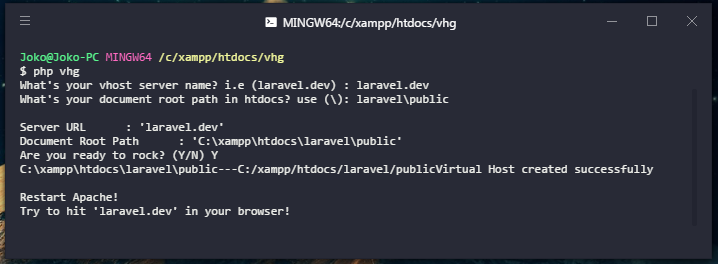
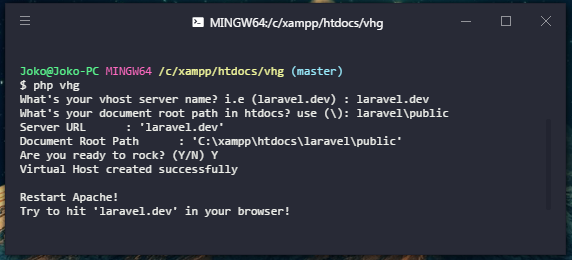
Remove debug, Update readme & screenshot

diff --git a/src/VHostGenerator.php b/src/VHostGenerator.php
@@ -66,10 +66,7 @@ class VHostGenerator
 
     private function convertSlash($document_root_path)
     {
-        echo $document_root_path;
         $new_path = str_replace('\\', '/', $document_root_path);
-        echo "---";
-        echo $new_path;
         return $new_path;
     }
 

diff --git a/README.md b/README.md
@@ -7,14 +7,19 @@ Create a new virtual host i.e (laravel.dev) using command line.
 
 ### How To Use
 
-Clone this repo.
+
 ```
+# Clone this repo
 git clone https://github.com/jokosusilo/vhg.git
-```
 
-Change directory to vhg,
-And, run vhg.
+# Enter the main repo
+cd vhg
 
-```
+# Install dependecies
+composer install
+
+# And, run vhg
 php vhg
+
 ```
+
